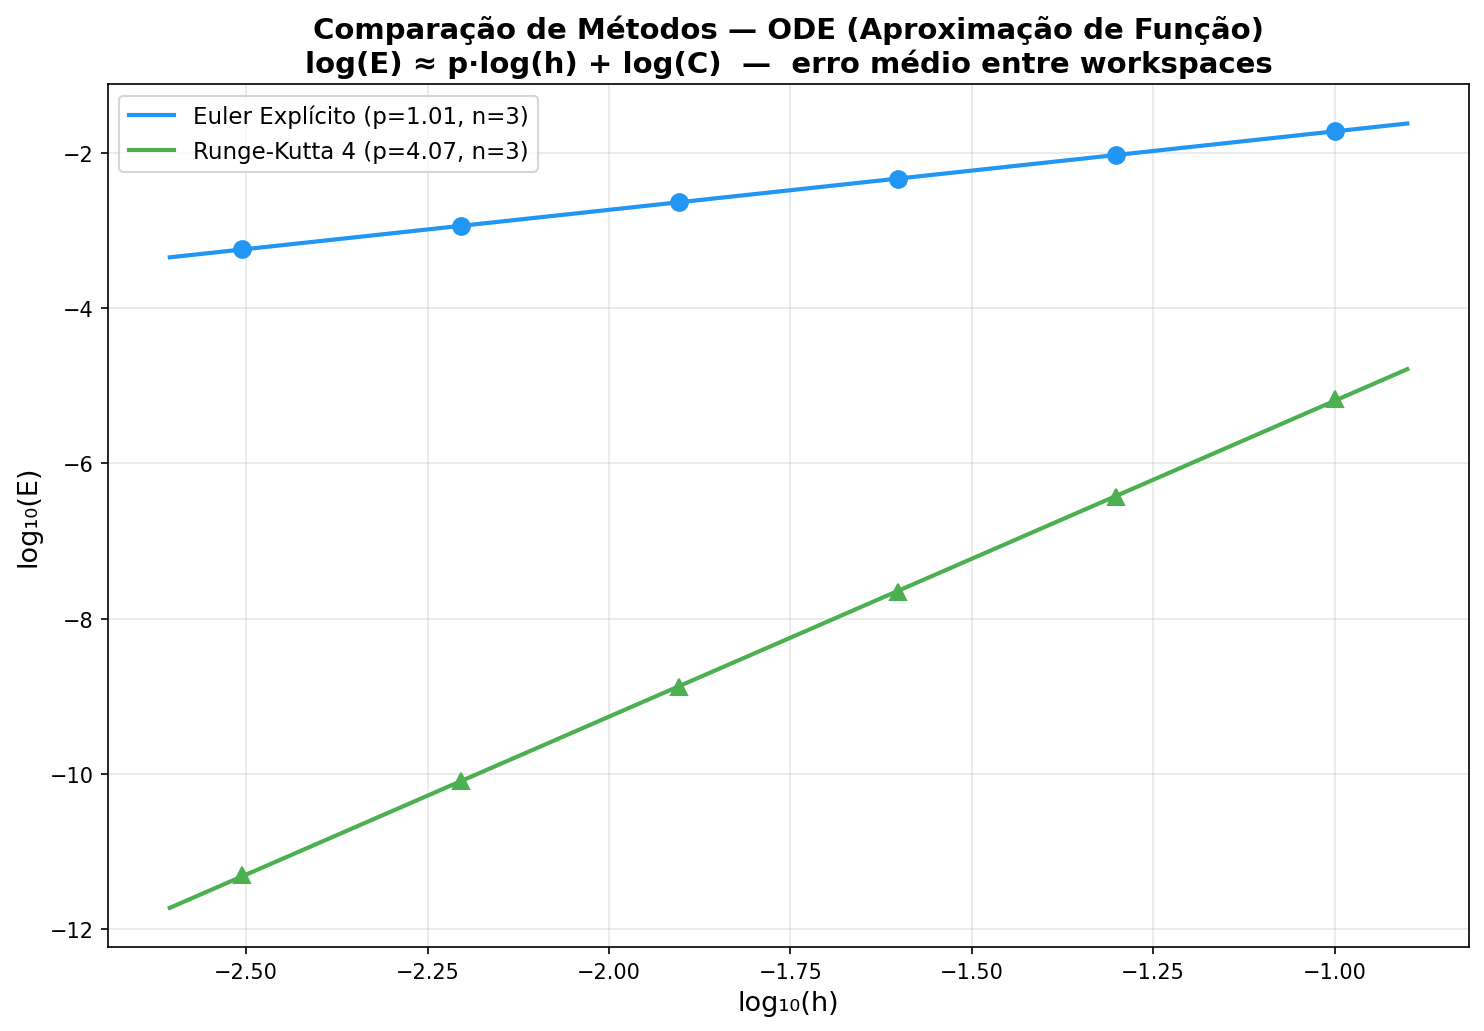
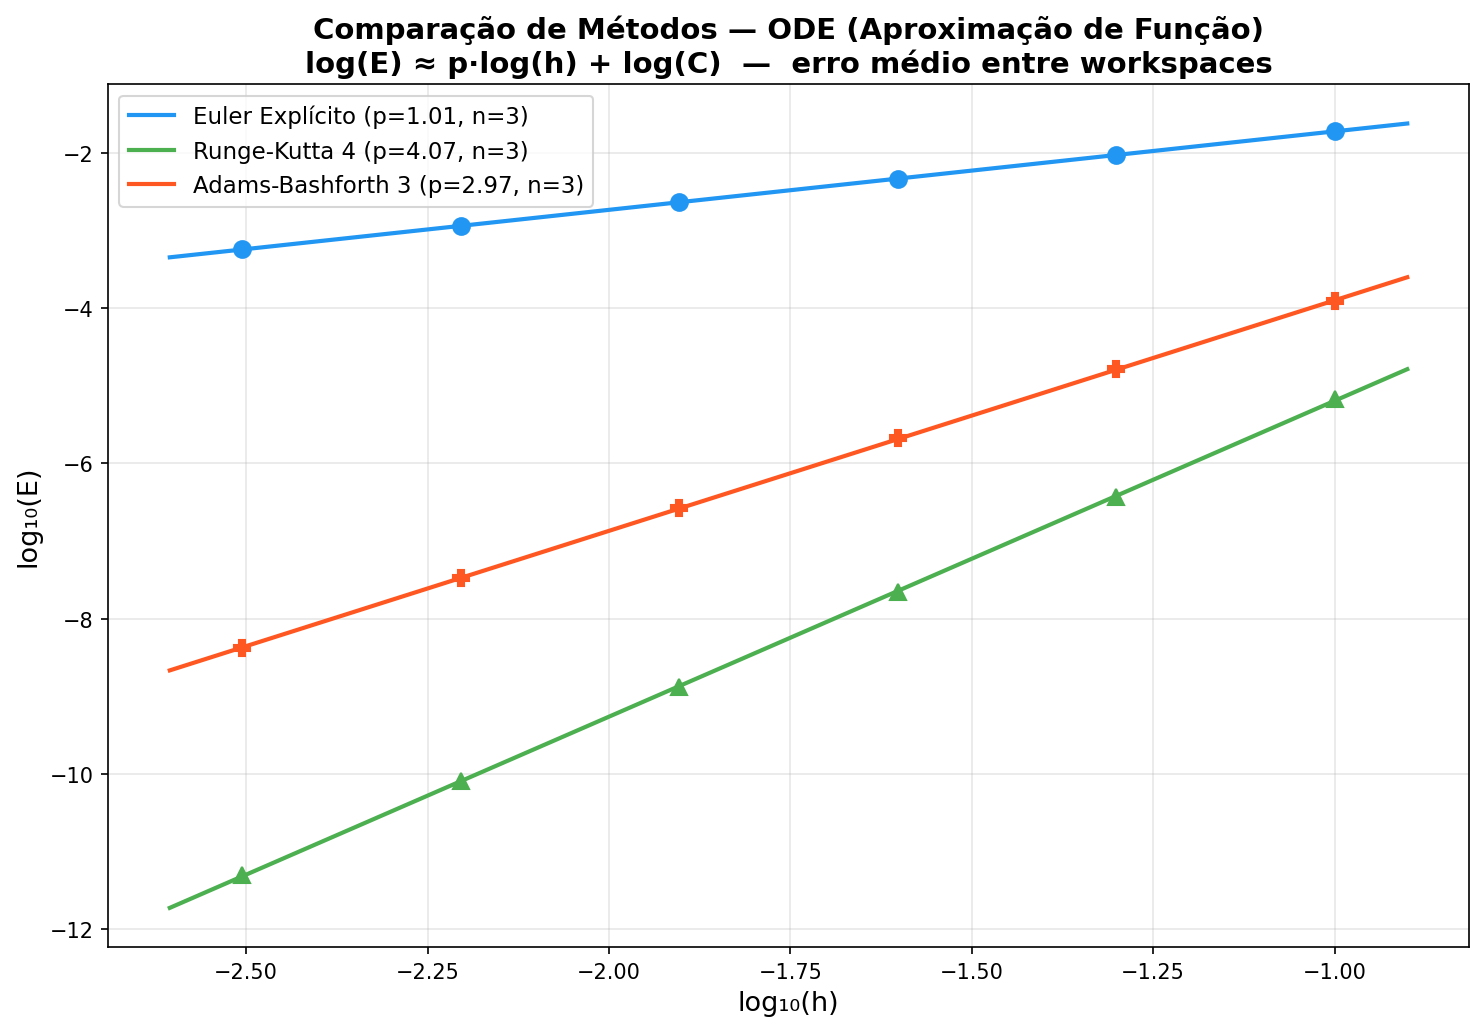
fix: update method directory name for Adams-Bashforth 3 and refresh log-log regression plots

diff --git a/script/plot_loglog_regression.py b/script/plot_loglog_regression.py
@@ -49,7 +49,7 @@ ODE_CONFIGS = [
         "marker": "^",
     },
     {
-        "method_dir": "adams-bashforth_ordem3",
+        "method_dir": "adams_bashforth_ordem3",
         "eval_filename": "evaluation_adams_bashforth_3.json",
         "label": "Adams-Bashforth 3",
         "color": "#FF5722",
